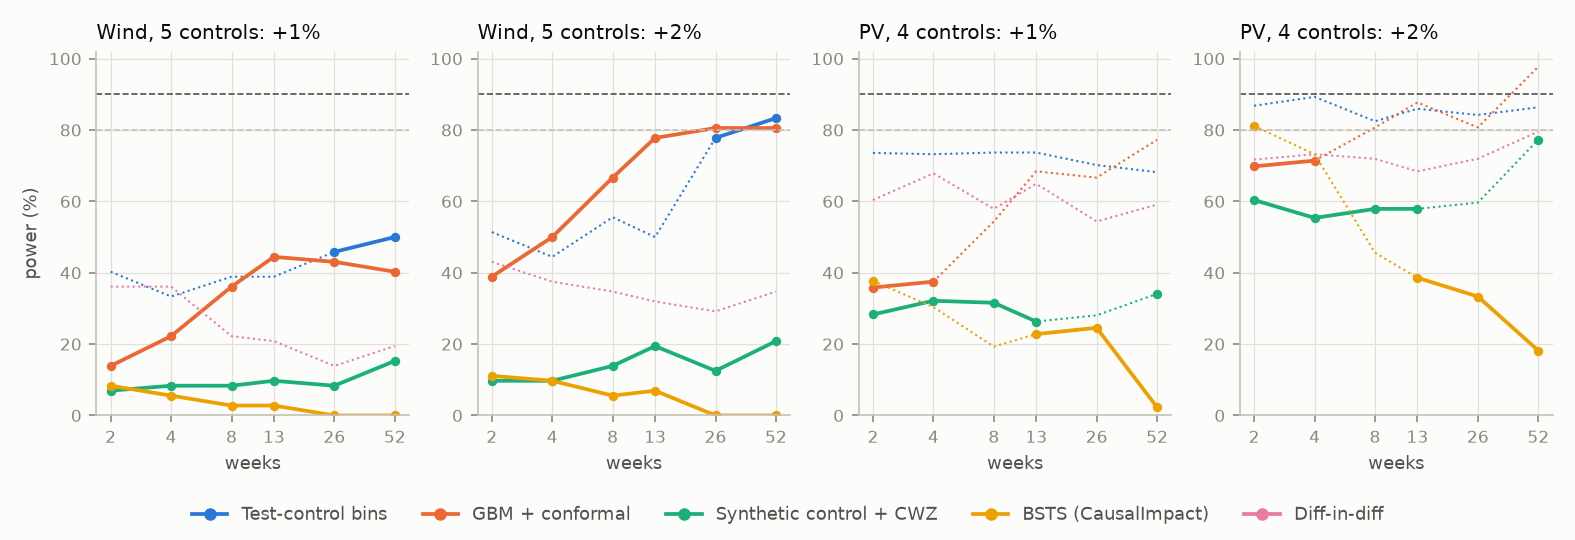
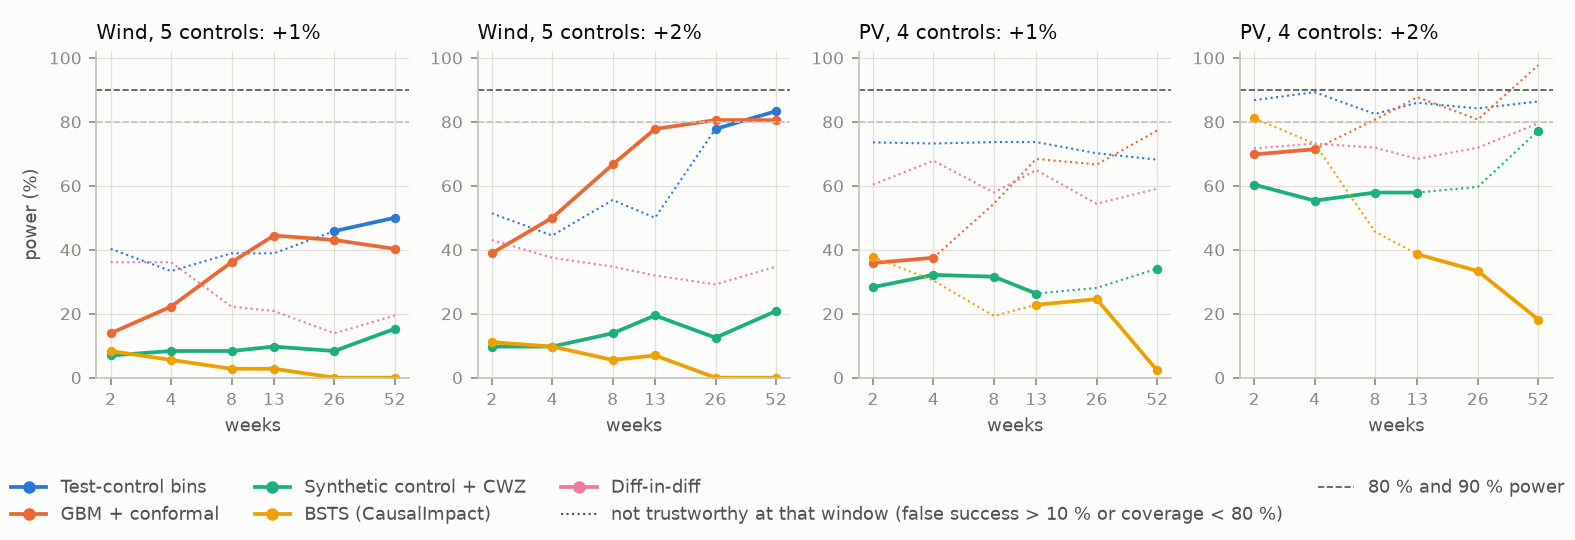
Explain line styles in the power figure, shorten a panel title
weeks_needed: the legend now names the dotted (not trustworthy) and dashed (80/90 % power) lines. method_comparison: shorter RMSE panel titles. No numbers changed.

diff --git a/src/res_uplift/report.py b/src/res_uplift/report.py
@@ -62,10 +62,13 @@ def _weeks_axis(ax, weeks):
     ax.minorticks_off()
 
 
-def _legend(fig, methods, ncol=6):
+def _legend(fig, methods, ncol=6, extra=()):
     handles = [plt.Line2D([], [], color=COLORS[m][0], marker="o", markersize=5, linewidth=1.8) for m in methods]
-    fig.legend(handles, [SHORT[m] for m in methods], loc="lower center", ncol=ncol, frameon=False, fontsize=8.5,
-               labelcolor=INK2)
+    labels = [SHORT[m] for m in methods]
+    for h, lab in extra:  # line styles that are not methods
+        handles.append(h)
+        labels.append(lab)
+    fig.legend(handles, labels, loc="lower center", ncol=ncol, frameon=False, fontsize=8.5, labelcolor=INK2)
 
 
 def max_controls(df: pd.DataFrame, tech: str) -> int:
@@ -92,7 +95,7 @@ def fig_method_comparison(summary: pd.DataFrame, out: Path) -> None:
             axes[r, 2].plot(fsr.index, 100 * fsr.values, **kw)
         name = "Wind (Kelmarsh, 5 controls)" if tech == "wind" else "PV (PVDAQ Las Vegas, all controls)"
         xlab = "post-period window (weeks)" if r == len(techs) - 1 else None
-        _style(axes[r, 0], f"{name}: error (RMSE)", xlab, "RMSE (% points)")
+        _style(axes[r, 0], f"{name}: RMSE", xlab, "RMSE (% points)")
         _style(axes[r, 1], "90 % interval coverage", xlab, "coverage (%)")
         _style(axes[r, 2], "false 'success' at zero effect", xlab, "share of trials (%)")
         axes[r, 1].axhline(90, color=INK2, linewidth=0.8, linestyle="--")
@@ -257,8 +260,12 @@ def fig_weeks(bounds: list[dict], out: Path) -> None:
             ax.set_ylim(0, 102)
             _style(ax, f"{'Wind' if tech == 'wind' else 'PV'}, {J} controls: +{delta:.0%}", "weeks",
                    "power (%)" if c == 0 and t == 0 else None)
-    _legend(fig, methods, ncol=5)
-    fig.tight_layout(rect=(0, 0.08, 1, 1))
+    styles = [(plt.Line2D([], [], color=INK2, linewidth=1.0, linestyle=":"),
+               f"not trustworthy at that window (false success > {100 * planner.MAX_FSR:.0f} % or coverage "
+               f"< {100 * planner.MIN_COVER:.0f} %)"),
+              (plt.Line2D([], [], color=INK2, linewidth=0.8, linestyle="--"), "80 % and 90 % power")]
+    _legend(fig, methods, ncol=4, extra=styles)
+    fig.tight_layout(rect=(0, 0.15, 1, 1))
     fig.savefig(out, dpi=150)
     plt.close(fig)
 
